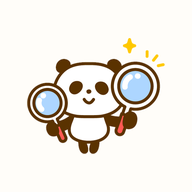
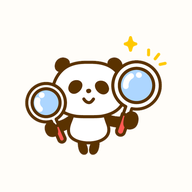
Add files via upload

diff --git a/index.html b/index.html
@@ -1086,7 +1086,7 @@ function openAboutModal(){
   modalSheet.innerHTML = `
     <h2>ℹ このアプリについて</h2>
     <div class="help-content">
-      ${pandaImg("panda20").replace('<img', '<img class="about-panda"')}
+      ${pandaImg("panda31").replace('<img', '<img class="about-panda"')}
       <p>「単価計算パンダ」は、お買い物や日々の暮らしで「これ電卓叩くの面倒だな」をサクッと解消する計算アプリです。</p>
       <p>データはご自身のスマホの中だけに保存され、外部に送信されることはありません。</p>
     </div>
